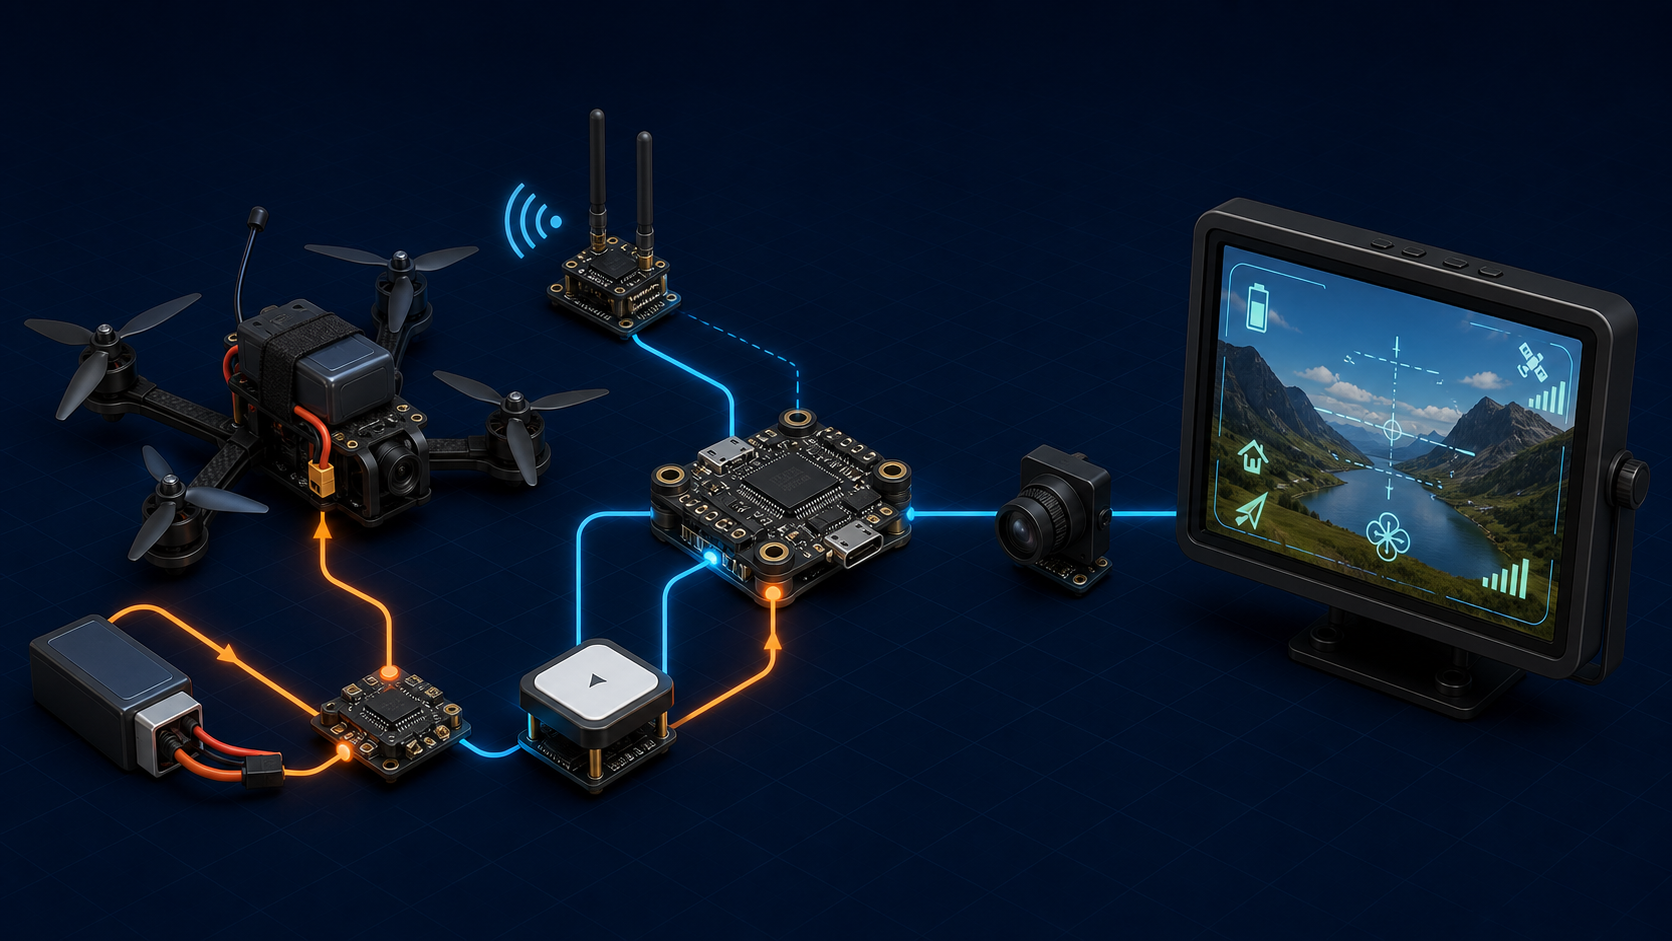
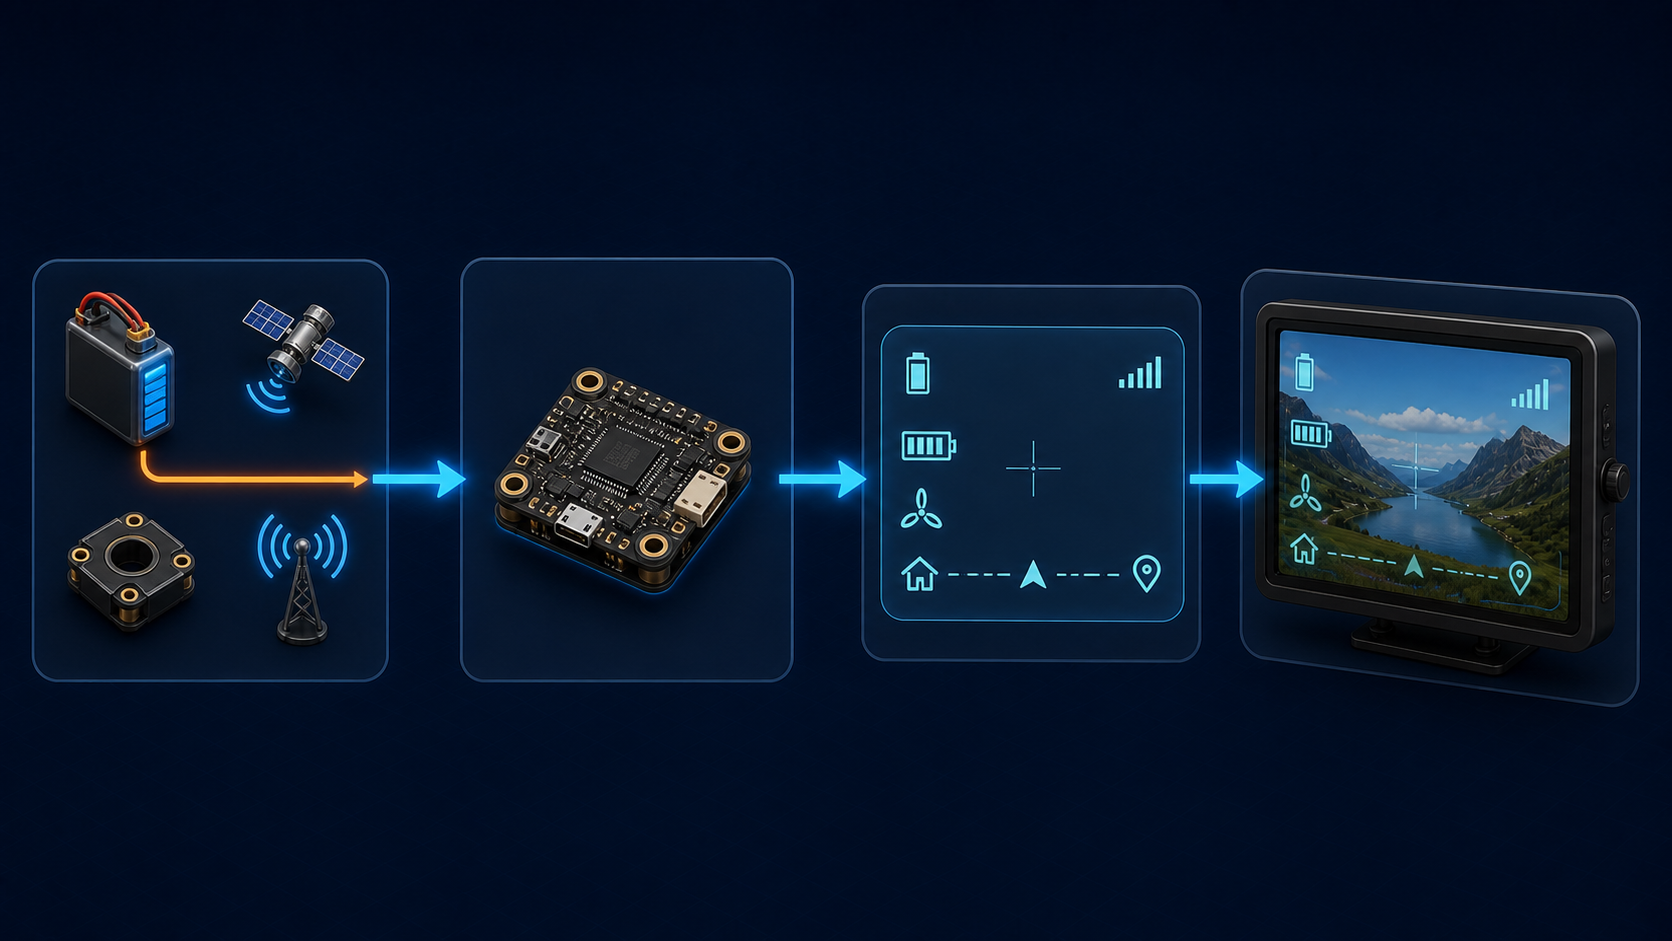
Clarify FPV OSD infographic flow

Changed region(s): [[0.0, 0.1233, 0.9952, 0.8629]]

diff --git a/app/articles/fpv-osd-basics/page.tsx b/app/articles/fpv-osd-basics/page.tsx
@@ -16,7 +16,7 @@ export default function FpvOsdBasicsArticle() {
       <p>相机输出的是实时视频；飞控会汇集电池电压、电流、飞行模式等机载数据，GPS、接收机或其他外设接入后还可能提供位置、距离、方向或链路状态。OSD（On-Screen Display，屏幕叠加显示）将可用的数据以图标、数字或提示叠加在视频上，而不是把数据“拍”进镜头里。</p>
       <p>这也解释了为什么同一套相机与图传，换了飞控配置后，屏幕内容可能完全不同。ZYRO C403 Max 产品资料标注支持 Betaflight / INAV OSD；具体能显示哪些字段，仍取决于飞控、传感器、接线和设置是否实际可用。</p>
 
-      <figure className="article-product"><img src={sitePath("/products/fpv-osd-data-path.png")} alt="FPV OSD 科普图：电池、电流传感器、GPS 和无线链路的数据汇入飞控，再叠加到相机实时画面显示器上" /><figcaption>OSD 的概念路径：电池、电流、定位和链路等数据进入飞控；飞控把可用信息叠加到相机视频中，再由图传与显示端呈现。橙色表示供电相关路径，蓝色表示数据与视频路径；图为原创建意图，并非具体设备接线图。</figcaption></figure>
+      <figure className="article-product"><img src={sitePath("/products/fpv-osd-data-path.png")} alt="FPV OSD 四步科普图：数据来源进入飞控，生成 OSD 叠加层，再显示在 FPV 画面上" /><figcaption>从左到右的四步路径：①电池、电流、定位与链路提供数据；②飞控汇集可用数据；③生成电压、容量、模式、返航和信号等 OSD 叠加层；④叠加层显示在 FPV 视频画面上。橙色箭头表示供电相关路径，蓝色箭头表示数据与视频路径；图为原创建意图，并非具体设备接线图。</figcaption></figure>
 
       <h2>四类最值得先看的信息</h2>
       <div className="comparison-grid">
